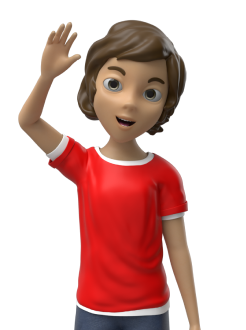
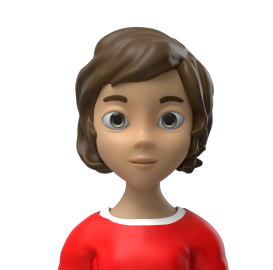
reorganized the home screen

diff --git a/src/screens/HomeScreen.js b/src/screens/HomeScreen.js
@@ -30,10 +30,10 @@ class HomeScreen extends React.Component {
       ),
 
       headerLeft: (
-        <TouchableOpacity onPress={() => navigation.navigate('Map')}>
+        <TouchableOpacity onPress={() => navigation.navigate('Explore')}>
           <Image
             style={{height: 40,width: 40,left:20}}
-            source={require('../../assets/Map-icon.png')}
+            source={require('../../assets/Explore-icon.png')}
           />
         </TouchableOpacity>
       )
@@ -41,12 +41,16 @@ class HomeScreen extends React.Component {
   };
 
   constructor(props) {
-    
     super(props);
-    
     var position = new Animated.ValueXY({x:300, y:200});
-  
-   
+    this.state = {
+      moveAnim     : new Animated.Value(0),
+      activated    : true,
+      fadeAnim : new Animated.Value(0),
+      blurRadius: 0,
+      panResponder,
+      position
+    };
     const panResponder = PanResponder.create({
       onStartShouldSetPanResponder: () => true,
       onPanResponderMove: (event, gesture) => {
@@ -61,14 +65,7 @@ class HomeScreen extends React.Component {
          Vibration.cancel()
       }
     });
-    this.state = {
-      moveAnim     : new Animated.Value(0),
-      activated    : true,
-      fadeAnim : new Animated.Value(0),
-      blurRadius: 0,
-      panResponder,
-      position
-    };
+
   };
 
   animate = () => {
@@ -86,7 +83,7 @@ class HomeScreen extends React.Component {
         this.state.fadeAnim,            
         {
           toValue: this.state.activated ? 1: 0,                   
-          duration: 1000,             
+          duration: 500,             
         }
       ).start();   
       this.setState({
@@ -121,12 +118,12 @@ class HomeScreen extends React.Component {
     let { fadeAnim } = this.state;
     return (
       <LinearGradient
-       colors={['#56CCF2', '#56CCF2', 'white']}
+       colors={['#CCDBE6', '#CCDBE6', '#CCDBE6']}
        style={{ height: height, width:width}}>   
         <Image
         blurRadius={this.state.blurRadius}
         style={{height: height,width: width}}
-        source={require('../../assets/Home-Background.png')}
+        source={require('../../assets/Home-Background-center.png')}
         />
        
         <Animated.View
@@ -139,13 +136,13 @@ class HomeScreen extends React.Component {
             opacity: fadeAnim,      
           }}>
       
-          <Image
+         {/* <Image
             style={{height:93,width:272, left: 20,
             position: 'absolute',
             top: 20,
             }}
             source={require('../../assets/Chat-bubble.png')}
-            />   
+          />  */ }
             
           <Image
               style={{height:26,width:343, left:20,
@@ -161,6 +158,7 @@ class HomeScreen extends React.Component {
             style ={{  
               position: 'absolute',
               bottom: 0+90,
+              
               zIndex: 1,
               right: 0,
             }}
@@ -168,22 +166,61 @@ class HomeScreen extends React.Component {
             <Image
             style={{
             height:150,width:100,
+            right:20,
             }}
-              source={require('../../assets/Nav_Avatar_Face_Animations.png')}
+              source={require('../../assets/Nav_Avatar_Face_Animations-wave.png')}
             />
           </TouchableOpacity>
         </Animated.View>
+        
+
+                  <View style={{
+                    flex:1,
+                    flexDirection: 'row',
+                    position: 'absolute',
+                    bottom: this.state.activated ? 127: 0,
+                    left:20
+                 
+                    }}>
+                      <TouchableOpacity style ={{margin:5}}  onPress={() => this.props.navigation.navigate('Explore')}>
+                      <Image
+                        style={{height: 35,width: 35}}
+                        source={require('../../assets/Explore-icon.png')}
+                      />
+                      </TouchableOpacity>
+                      <TouchableOpacity style ={{margin:5}} onPress={() => this.props.navigation.navigate('Map')}>
+                      <Image
+                       style={{height: 35,width: 35}}
+                        source={require('../../assets/Map-icon.png')}
+                      />
+                      </TouchableOpacity>
+                      <TouchableOpacity style ={{margin:5}} onPress={() => this.props.navigation.navigate('Community')}>
+                      <Image
+                        style={{height: 35,width: 35}}
+                        source={require('../../assets/Community-icon.png')}
+                      />
+                      </TouchableOpacity>
+                      <TouchableOpacity style ={{margin:5}} onPress={() => this.props.navigation.navigate('Calendar')} >
+                      <Image
+                       style={{height: 35,width: 35}}
+                        source={require('../../assets/Calendar-icon.png')}
+                      />
+                      </TouchableOpacity>
+                  </View>
+             
+
         <TouchableOpacity
               style = {{
               alignSelf: 'flex-end',
               position: 'absolute',
-              bottom: 0+90,
+              bottom: 0+40,
+              right: 20,
               width: this.state.activated ? 100: 0,
               height: this.state.activated ? 150: 0,
               }}
-              onPress={this._onPressButton} onLongPress={this.animate}>
+              onPress={this.animate} onLongPress={this.animate}>
               <Image
-                style={{height:150,width:100,}}
+                style={{height:100,width:100,}}
                 source={require('../../assets/Nav_Avatar_Face_Animations.png')}
               />
               </TouchableOpacity>

diff --git a/src/screens/CalendarScreen.js b/src/screens/CalendarScreen.js
@@ -17,10 +17,10 @@ class CalendarScreen extends React.Component {
     const params = navigation.state.params || {};
     return {
       headerRight: (
-        <TouchableOpacity onPress={() => navigation.navigate('Chat')}>
+        <TouchableOpacity onPress={() => navigation.navigate('Home')}>
           <Image
             style={{height: 40,width: 40, right:20}}
-            source={require('../../assets/Chat-icon.png')}
+            source={require('../../assets/Home-icon.png')}
           />
         </TouchableOpacity>
 
@@ -28,7 +28,7 @@ class CalendarScreen extends React.Component {
       headerLeft: (
         <TouchableOpacity onPress={() => navigation.navigate('Shop')}>
           <Image
-            style={{height: 40,width: 40,left:20}}
+            style={{height: 0,width: 40,left:20}}
             source={require('../../assets/Shop-icon.png')}
           />
         </TouchableOpacity>

diff --git a/src/screens/MapScreen.js b/src/screens/MapScreen.js
@@ -187,14 +187,14 @@ class MapScreen extends React.Component {
             <TouchableOpacity onPress={() => navigation.navigate('Home')}>
               <Image
                 style={{height: 40,width: 40, right:20}}
-                source={require('../../assets/Explore-icon.png')}
+                source={require('../../assets/Home-icon.png')}
               />
             </TouchableOpacity>
           ),
           headerLeft: (
             <TouchableOpacity onPress={() => navigation.navigate('Chat')}>
               <Image
-                style={{height: 40,width: 40,left:20}}
+                style={{height: 40,width: 0,left:20}}
                 source={require('../../assets/Chat-icon.png')}
               />
             </TouchableOpacity>

diff --git a/App.js b/App.js
@@ -24,7 +24,7 @@ import ExploreScreen from './src/screens/ExploreScreen.js';
 
 const customAnimationFunc = () => ({
   screenInterpolator : sceneProps => {
-    return CardStackStyleInterpolator.forHorizontal(sceneProps);
+    return CardStackStyleInterpolator.forFade(sceneProps);
   },
 });
 
